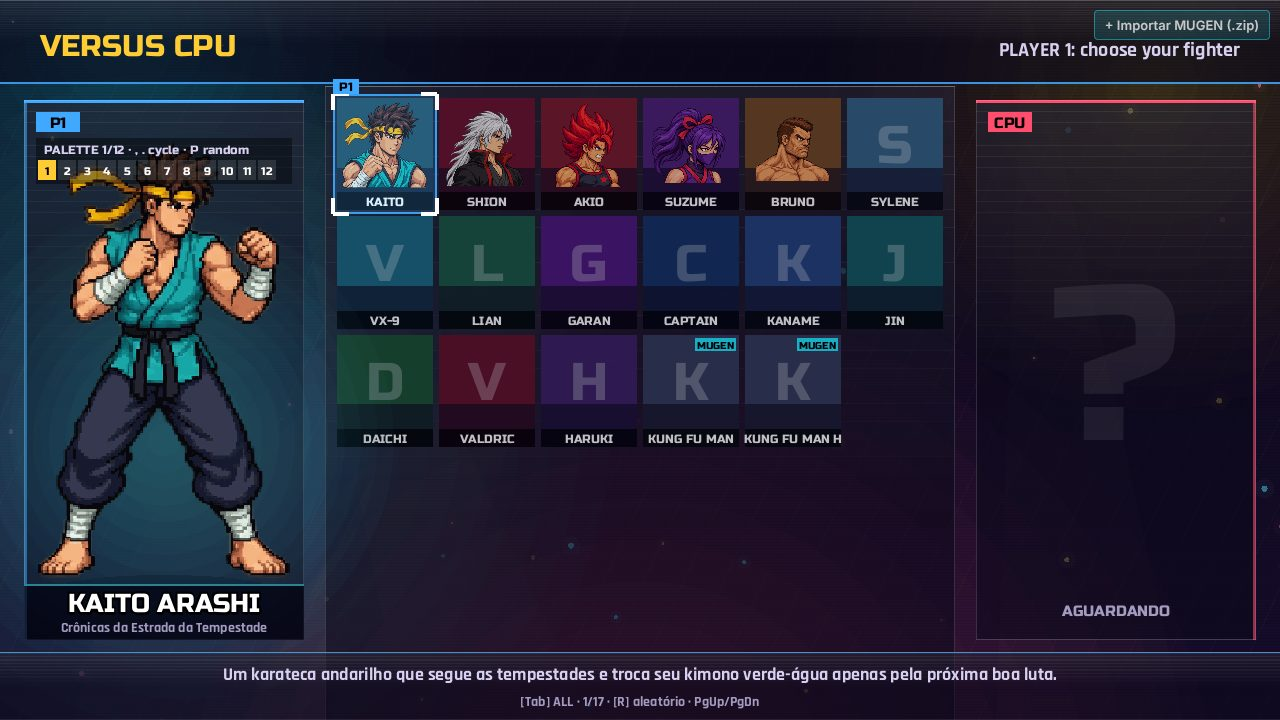
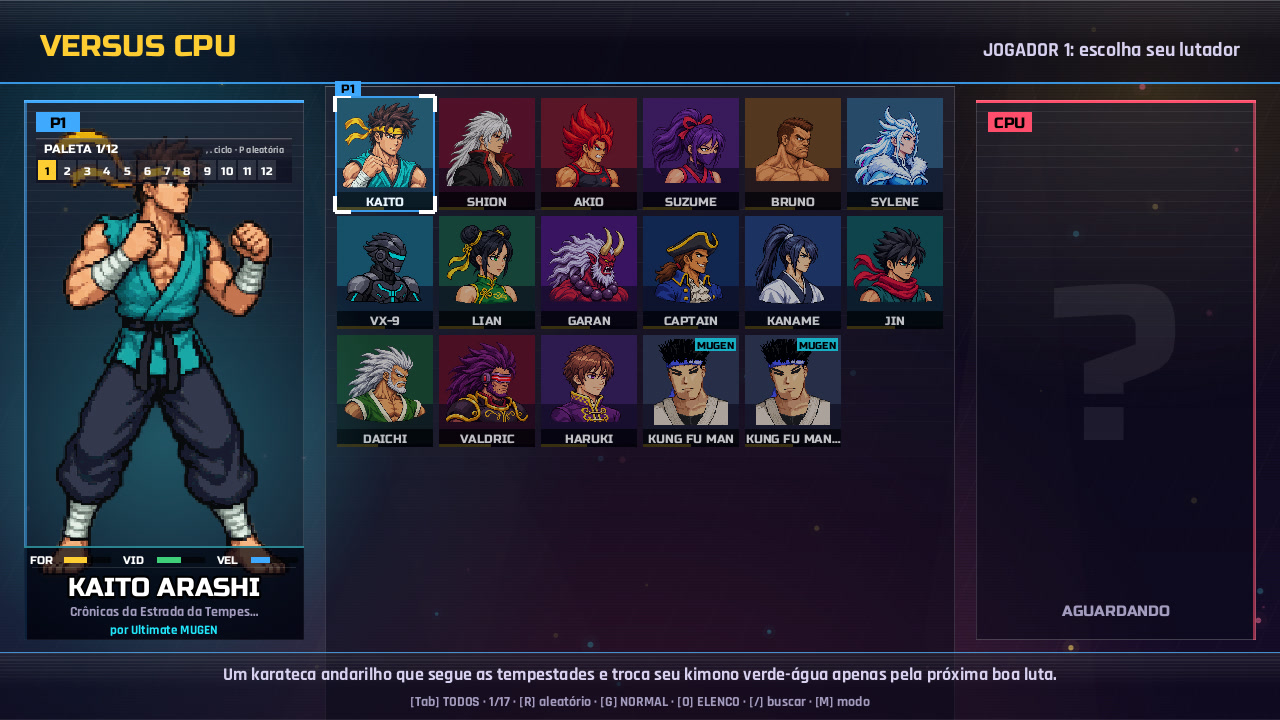
docs(readme): refresh native roster screenshots

diff --git a/README.pt-BR.md b/README.pt-BR.md
@@ -84,9 +84,9 @@ Teclado, toque, Xbox, DualShock 4 e DualSense com **vibração e lightbar**. Arc
 
 ### Lutadores em pixel art
 
-O elenco nativo é desenhado em pixel art arcade de 32 bits, com um conjunto de poses dedicado por lutador, paletas, especiais de ki, voo, teletransporte e transformações. Cada personagem é declarado em um único JSON UMF.
+O elenco nativo é desenhado em pixel art arcade de 32 bits, com um conjunto de poses dedicado por lutador, paletas, especiais de ki, voo, teletransporte e transformações. Os 16 lutadores nativos têm ciclos de corrida dedicados em quatro quadros. Cada personagem é declarado em um único JSON UMF.
 
-![Seleção de personagens com o elenco em pixel art](docs/assets/readme/roster-select.jpg)
+![Seleção de personagens com retratos carregados no elenco nativo](docs/assets/readme/roster-select.jpg)
 
 ### Mapas
 
@@ -101,7 +101,7 @@ O **modo História** traz cinco extensões longas e roláveis das arenas (Brasil
 <table>
 <tr>
 <td width="50%"><img src="docs/assets/readme/versus-screen.jpg" alt="Tela de versus"></td>
-<td width="50%"><img src="docs/assets/readme/fight-round1.jpg" alt="Round 1 no cenário Bambuzal"></td>
+<td width="50%"><img src="docs/assets/readme/fight-round1.jpg" alt="Round 1 no cenário Bambuzal com dois lutadores nativos"></td>
 </tr>
 </table>
 

diff --git a/README.md b/README.md
@@ -84,9 +84,9 @@ Keyboard, touch, Xbox, DualShock 4 and DualSense with **rumble and lightbars**. 
 
 ### Pixel-art fighters
 
-The native roster is drawn as 32-bit arcade pixel art, one dedicated pose set per fighter, with palettes, ki/energy specials, flight, teleport and transformations. Characters are declared in a single UMF JSON each.
+The native roster is drawn as 32-bit arcade pixel art, one dedicated pose set per fighter, with palettes, ki/energy specials, flight, teleport and transformations. All 16 built-in fighters have dedicated four-frame run cycles. Characters are declared in a single UMF JSON each.
 
-![Character select with the pixel-art roster](docs/assets/readme/roster-select.jpg)
+![Character select with portraits loaded across the native roster](docs/assets/readme/roster-select.jpg)
 
 ### Maps
 
@@ -101,7 +101,7 @@ The native roster is drawn as 32-bit arcade pixel art, one dedicated pose set pe
 <table>
 <tr>
 <td width="50%"><img src="docs/assets/readme/versus-screen.jpg" alt="Versus screen"></td>
-<td width="50%"><img src="docs/assets/readme/fight-round1.jpg" alt="Round 1 on the Bamboo stage"></td>
+<td width="50%"><img src="docs/assets/readme/fight-round1.jpg" alt="Round 1 on the Bamboo stage with two native fighters"></td>
 </tr>
 </table>
 
